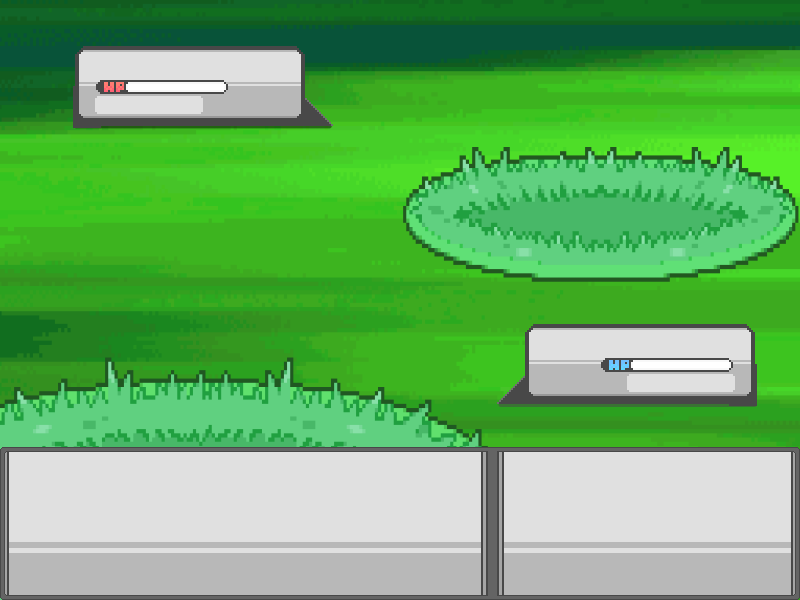
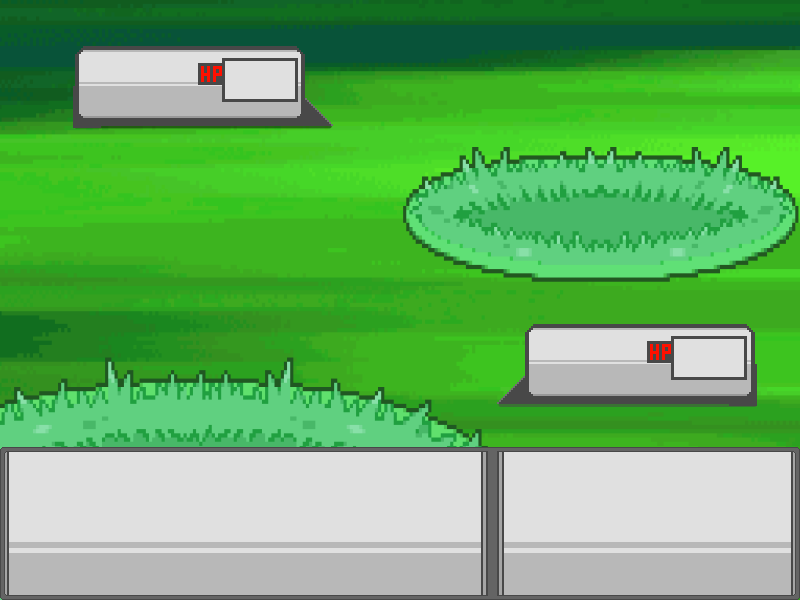
Position fixed

Changed region(s): [[0.0938, 0.09, 0.375, 0.21], [0.75, 0.54, 0.9375, 0.66]]

diff --git a/code/combat.py b/code/combat.py
@@ -48,7 +48,7 @@ class Combat:
         )
         self.background = pygame.transform.scale(self.background, (800, 600))
         self.custom_font_path = os.path.join(font_directory, "pkmn.ttf")
-        self.font = pygame.font.Font(self.custom_font_path, 16)
+        self.font = pygame.font.Font(self.custom_font_path, 13)
 
         pygame.mixer.music.load(os.path.join(music_directory, "battle.wav"))
         pygame.mixer.music.set_volume(0.5)
@@ -139,34 +139,32 @@ class Combat:
                 True,
                 (0, 0 ,0)
             )
-            self.screen.blit(player_pokemon_name_surface, (605, 334))
+            self.screen.blit(player_pokemon_name_surface, (542, 344))
             player_pokemon_health_surface = self.font.render(
                 f"{self.player_pokemon.health}/20",
                 True,
                 (0, 0, 0)
             )
-            self.screen.blit(player_pokemon_health_surface, (633, 362))
+            self.screen.blit(player_pokemon_health_surface, (677, 352))
             player_pokemon_level_surface = self.font.render(
                 f"LVL {self.player_pokemon.level}",
                 True,
                 (0, 0 ,0)
             )
-            self.screen.blit(player_pokemon_level_surface, (635, 374))
+            self.screen.blit(player_pokemon_level_surface, (545, 374))
 
             enemy_pokemon_name_surface = self.font.render(
                 self.enemy_pokemon.name,
                 True,
                 (0, 0 ,0)
             )
-            self.screen.blit(enemy_pokemon_name_surface, (99, 59))
-            enemy_pokemon_health_bar_width = 96 * (self.enemy_pokemon.health / 20)  # Adjust length based on health
-            enemy_pokemon_health_bar_height = 6  # Change this value to adjust thickness
+            self.screen.blit(enemy_pokemon_name_surface, (99, 66))
             enemy_pokemon_health_surface = self.font.render(
                 f"{self.enemy_pokemon.health}/20",
                 True,
                 (0, 0, 0)
             )
-            self.screen.blit(enemy_pokemon_health_surface, (128, 84))
+            self.screen.blit(enemy_pokemon_health_surface, (228, 74))
             enemy_pokemon_level_surface = self.font.render(
                 f"LVL {self.enemy_pokemon.level}",
                 True,
